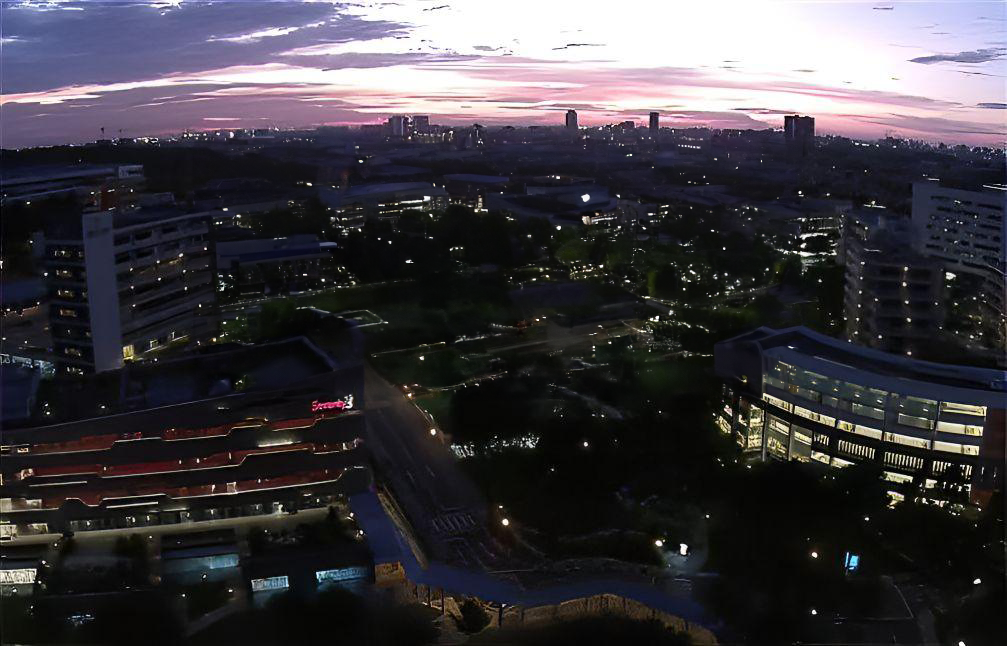
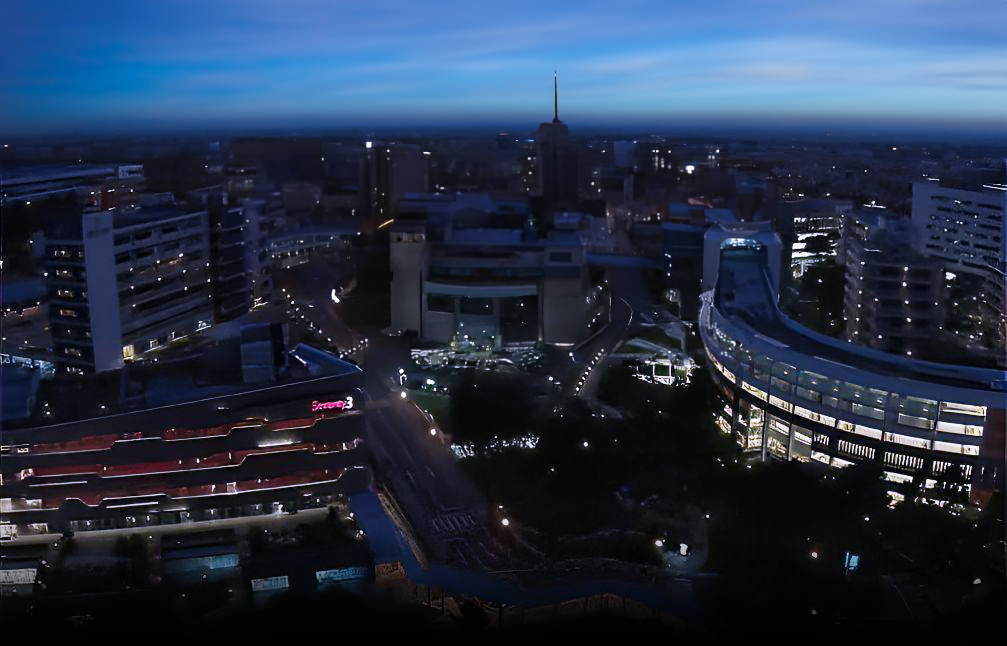
Improved UI for Ngee Ann City

diff --git a/ngeeAnnCity.py b/ngeeAnnCity.py
@@ -515,7 +515,7 @@ def load_game_free_play():
 
 # Main Menu with buttons
 def main_menu():
-    background_image = load_background_image('./NgeeAnnPoly.jpg')  # Replace 'background.jpg' with your image file path
+    background_image = load_background_image('./Background.png')  # Replace 'background.jpg' with your image file path
 
     while True:
         screen.fill(BLACK)  # Fill the screen with black color
@@ -526,24 +526,61 @@ def main_menu():
 
         play_button = pygame.Rect(SCREEN_WIDTH // 2 - button_width // 2, 450, button_width, button_height)
         leaderboard_button = pygame.Rect(SCREEN_WIDTH // 2 - button_width // 2, 535, button_width, button_height)
-        exit_button = pygame.Rect(SCREEN_WIDTH // 2 - button_width // 2, 620, button_width, button_height)
+        settings_button = pygame.Rect(SCREEN_WIDTH // 2 - button_width // 2, 620, button_width, button_height)  # New Settings Button
+        exit_button = pygame.Rect(SCREEN_WIDTH // 2 - button_width // 2, 705, button_width, button_height)
 
         draw_button_with_hover(play_button, 'Play', BUTTON_FONT, WHITE, GREY, screen)
         draw_button_with_hover(leaderboard_button, 'Leaderboard', BUTTON_FONT, WHITE, GREY, screen)
+        draw_button_with_hover(settings_button, 'Settings', BUTTON_FONT, WHITE, GREY, screen)  # Draw Settings Button
         draw_button_with_hover(exit_button, 'Exit', BUTTON_FONT, WHITE, GREY, screen)
 
         for event in pygame.event.get():
             if event.type == pygame.QUIT:
                 pygame.quit()
                 sys.exit()
-            if event.type == pygame.MOUSEBUTTONDOWN:
+            if event.type == pygame.MOUSEBUTTONUP:
                 if play_button.collidepoint(event.pos):
                     play_menu()
                 elif leaderboard_button.collidepoint(event.pos):
                     display_leaderboard()
+                elif settings_button.collidepoint(event.pos):  # Handle Settings Button Click
+                    settings_menu()
                 elif exit_button.collidepoint(event.pos):
                     pygame.quit()
                     sys.exit()
+
+        pygame.display.update()
+# Settings Menu with buttons
+def settings_menu():
+    background_image = load_background_image('./MenuBackground.png')  # Replace with your image file path
+
+    while True:
+        screen.fill(BLACK)  # Fill the screen with black color
+        draw_background_image(background_image, screen)
+
+        draw_text('Settings', MENU_TITLE_FONT, WHITE, screen, SCREEN_WIDTH // 2, 200)
+
+        button_width = 400
+        button_height = 70
+
+        mute_button = pygame.Rect(SCREEN_WIDTH // 2 - button_width // 2, 450, button_width, button_height)
+        back_button = pygame.Rect(SCREEN_WIDTH // 2 - button_width // 2, 535, button_width, button_height)
+
+        draw_button_with_hover(mute_button, 'Mute/Unmute Music', BUTTON_FONT, WHITE, GREY, screen)
+        draw_button_with_hover(back_button, 'Back', BUTTON_FONT, WHITE, GREY, screen)
+
+        for event in pygame.event.get():
+            if event.type == pygame.QUIT:
+                pygame.quit()
+                sys.exit()
+            if event.type == pygame.MOUSEBUTTONUP:
+                if mute_button.collidepoint(event.pos):
+                    if pygame.mixer.music.get_volume() > 0:
+                        pygame.mixer.music.set_volume(0)
+                    else:
+                        pygame.mixer.music.set_volume(0.03)  # Set to your desired volume level
+                elif back_button.collidepoint(event.pos):
+                    return
 
         pygame.display.update()
 
@@ -572,7 +609,7 @@ def play_menu():
             if event.type == pygame.QUIT:
                 pygame.quit()
                 sys.exit()
-            if event.type == pygame.MOUSEBUTTONDOWN:
+            if event.type == pygame.MOUSEBUTTONUP:
                 if arcade_mode_button.collidepoint(event.pos):
                     arcade_menu()
                 elif free_play_button.collidepoint(event.pos):
@@ -607,7 +644,7 @@ def arcade_menu():
             if event.type == pygame.QUIT:
                 pygame.quit()
                 sys.exit()
-            if event.type == pygame.MOUSEBUTTONDOWN:
+            if event.type == pygame.MOUSEBUTTONUP:
                 if load_saved_game_button.collidepoint(event.pos):
                     grid, coins, turn, score, restricted_residential = load_game_arcade()
                     if grid is not None:
@@ -648,7 +685,7 @@ def free_play_menu():
             if event.type == pygame.QUIT:
                 pygame.quit()
                 sys.exit()
-            if event.type == pygame.MOUSEBUTTONDOWN:
+            if event.type == pygame.MOUSEBUTTONUP:
                 if load_saved_game_button.collidepoint(event.pos):
                     grid, coins, turn, score, restricted_residential, expansion_count = load_game_free_play()
                     if grid is not None:
@@ -783,7 +820,7 @@ def arcade_game(grid=None, coins=None, turn=None, score=None, restricted_residen
                     elif event.key == pygame.K_2:
                         selected_building = buildings[1]
 
-            if event.type == pygame.MOUSEBUTTONDOWN:
+            if event.type == pygame.MOUSEBUTTONUP:
                 x, y = event.pos
                 col = (x - MARGIN_LEFT) // CELL_SIZE
                 row = (y - MARGIN_TOP) // CELL_SIZE
@@ -947,7 +984,7 @@ def free_play_game(grid=None, coins=None, turn=None, score=None, restricted_resi
                     elif event.key == pygame.K_5:
                         selected_building = 'Road'
 
-            if event.type == pygame.MOUSEBUTTONDOWN:
+            if event.type == pygame.MOUSEBUTTONUP:
                 x, y = event.pos
                 col = (x - MARGIN_LEFT) // CELL_SIZE
                 row = (y - MARGIN_TOP) // CELL_SIZE
